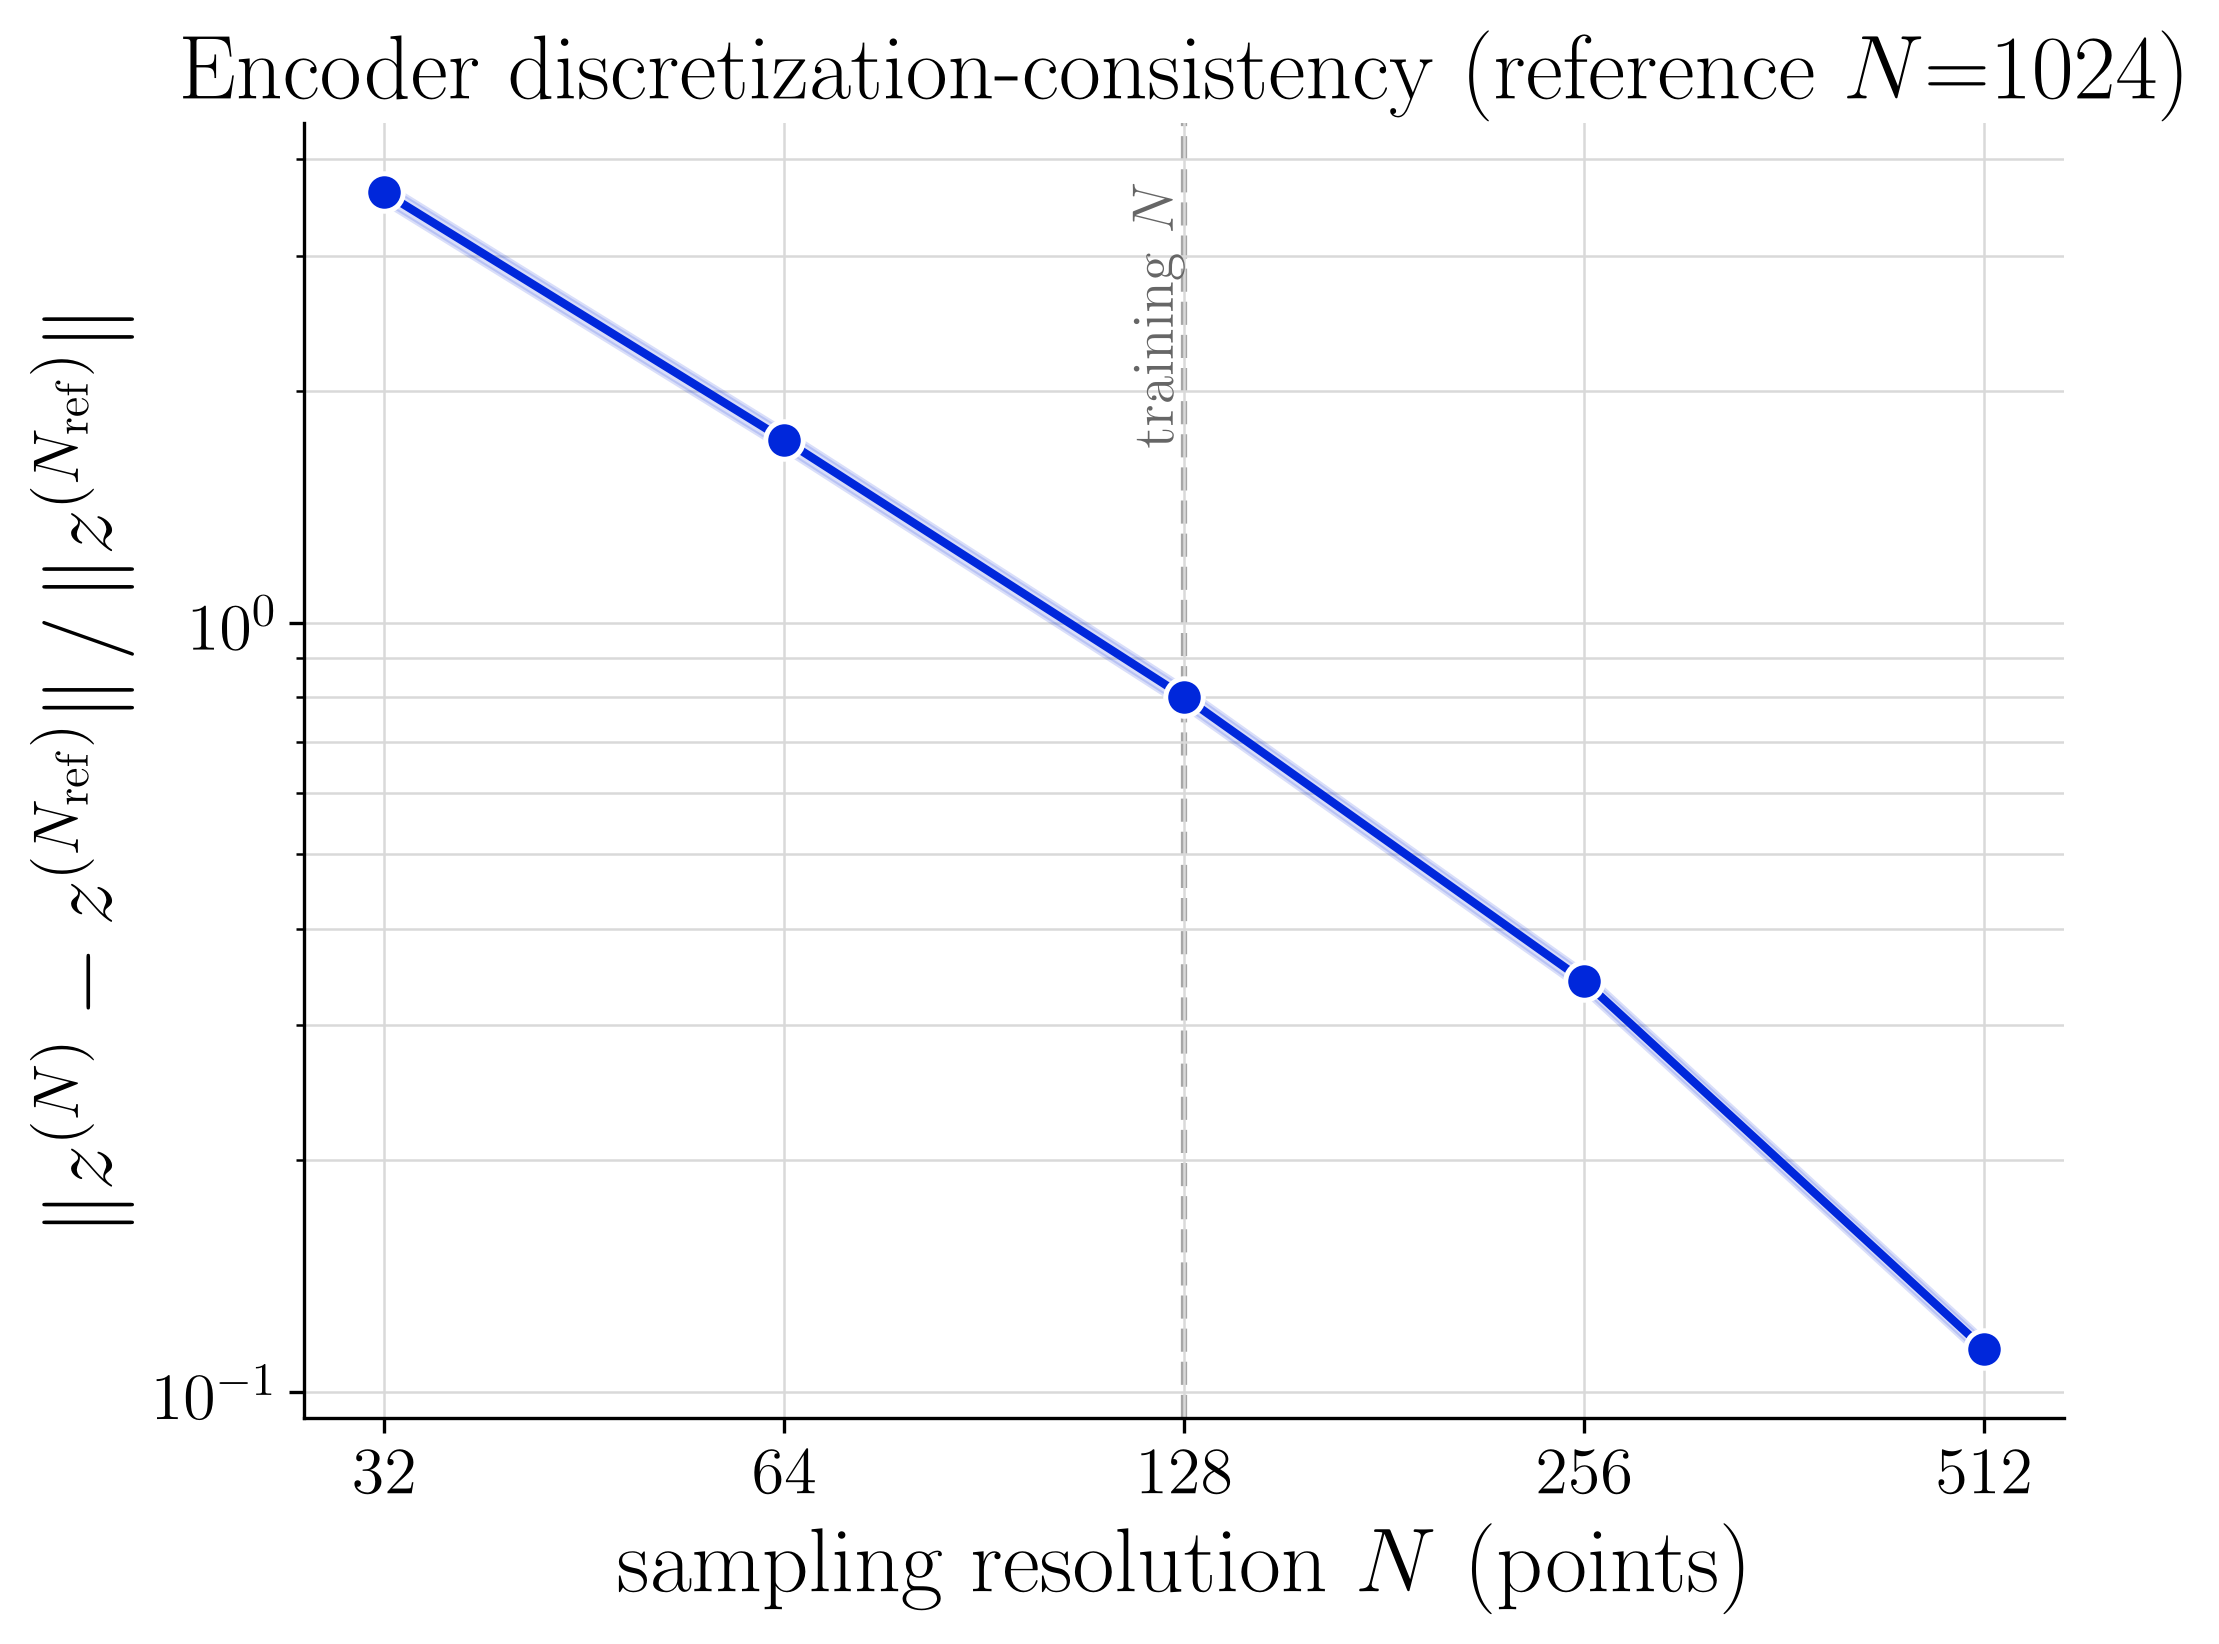
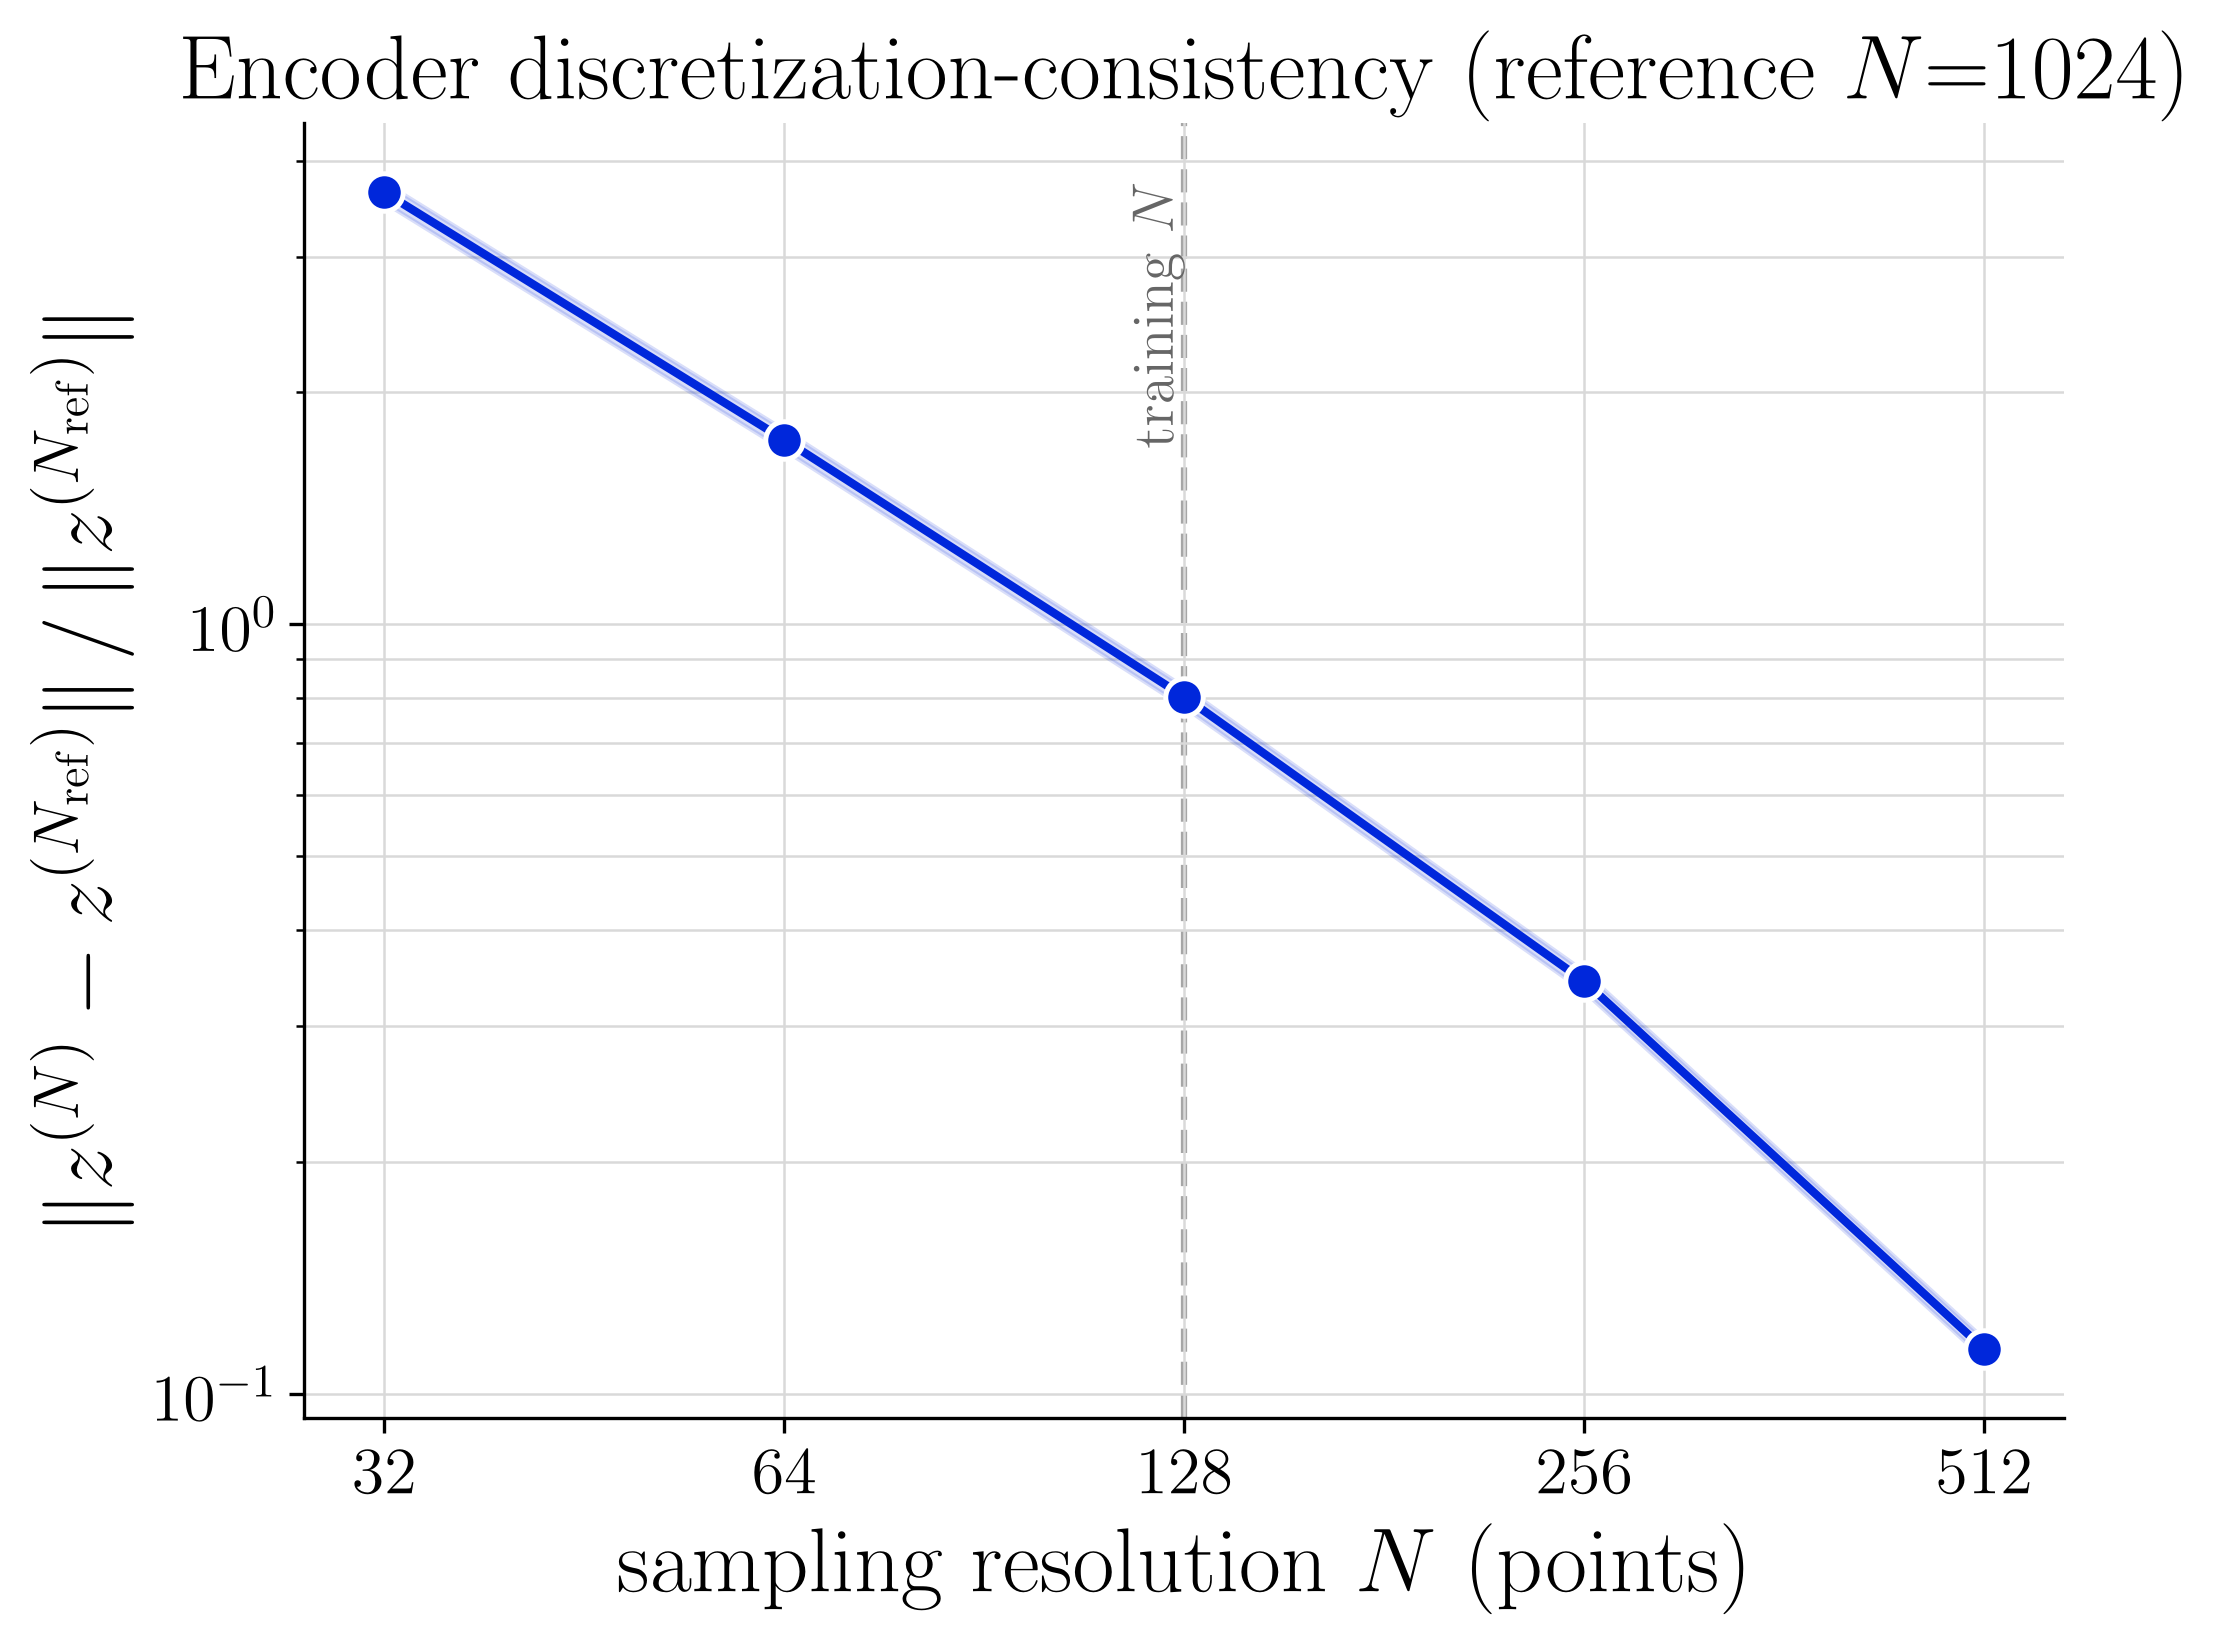
update training

diff --git a/src/training.py b/src/training.py
@@ -289,6 +289,41 @@ def _reset_xi_adam_moments(opt_state):
     return (new_adam_state, *rest)
 
 
+def _log_diagnostics(step, total_steps, aux, mask, t_start, steps_already_done):
+    """
+    Print the full loss breakdown and per-latent-dimension z statistics for the batch
+    just trained on. Meant to run far less often than the per-step loss_hist bookkeeping
+    (every `log_every` steps, and whenever a checkpoint is saved) -- this is for human
+    monitoring at the console, not analysis, so unlike loss_hist none of it is persisted.
+
+    The per-dimension `z std` row is the direct diagnostic for "has a latent variable
+    been turned off": `LAMBDA_VAR`'s gauge-fix pushes every axis toward Var(z_k) ~= 1,
+    so a std collapsing toward 0 on some axis means that axis has become an
+    (uninformative) near-constant -- visible here immediately, well before it would
+    show up in the aggregate loss_var number alone (loss_var is a mean over the whole
+    latent_dim x latent_dim covariance matrix, so one dead axis can be swamped by the
+    others and stay hidden in that single scalar).
+    """
+    elapsed = time.time() - t_start
+    done_this_run = step - steps_already_done
+    rate = done_this_run / elapsed if elapsed > 0 else float('nan')
+    eta_min = (total_steps - step) / rate / 60 if rate > 0 else float('nan')
+    n_active = int(np.array(mask).sum())
+
+    z = np.array(aux['z'])
+    z_mean = z.mean(axis=0)
+    z_std = z.std(axis=0)
+
+    print(f'[log {step}/{total_steps}]  ({rate:.1f} steps/s, elapsed {elapsed/60:.1f} min, ETA {eta_min:.1f} min)')
+    print(f'  loss {float(aux["loss"]):.3e}  rec {float(aux["loss_rec"]):.3e}  '
+          f'dz {float(aux["loss_dz"]):.3e}  dx {float(aux["loss_dx"]):.3e}  '
+          f'sp {float(aux["loss_sp"]):.3e}  var {float(aux["loss_var"]):.3e}  '
+          f'active {n_active}/{mask.size}')
+    with np.printoptions(precision=3, suppress=True):
+        print(f'  z mean {z_mean}')
+        print(f'  z std  {z_std}')
+
+
 def make_decoder(cfg):
     
     """
@@ -376,7 +411,7 @@ def make_train_step(cfg):
 
 
 def train(cfg, model, params, mask, training_data, rng, checkpoint_path=None, checkpoint_every=50_000,
-          resume_from=None, key=None):
+          resume_from=None, key=None, log_every=10_000):
     """
     Train `model` with hard sequential thresholding of the SINDy coefficients `xi`
     (STLSQ-style: |xi| < cfg.loss.THRESHOLD -> 0), drawing random batches straight
@@ -396,6 +431,12 @@ def train(cfg, model, params, mask, training_data, rng, checkpoint_path=None, ch
     there every `checkpoint_every` steps and again at the end -- with step budgets
     in the hundreds of thousands to millions, this is what makes a run recoverable
     after a Colab disconnect or any other mid-training interruption.
+
+    Every `log_every` steps, and again whenever a checkpoint is saved, the full loss
+    breakdown (not just `max|xi|`) and the per-latent-dimension mean/std of `z` for
+    that step's batch are printed to the console (see `_log_diagnostics`) -- this is
+    console-only monitoring, not persisted, and separate from the per-step scalar loss
+    terms that get appended to `loss_hist` every step regardless.
 
     `resume_from`, if given, is a `load_checkpoint(...)` payload: training picks up
     from the saved params/opt_state/mask/loss_hist and `state.step` rather than
@@ -451,7 +492,10 @@ def train(cfg, model, params, mask, training_data, rng, checkpoint_path=None, ch
             else:
                 u_t, u_dot, x = sample_batch(training_data, cfg.training.BATCH_SIZE, rng)
             state, total, aux = train_step(state, u_t, u_dot, x, mask)
-            loss_hist.append({k: float(v) for k, v in aux.items()})
+            loss_hist.append({k: float(v) for k, v in aux.items() if k != 'z'})
+
+            if step % log_every == 0:
+                _log_diagnostics(step, total_steps, aux, mask, t_start, steps_already_done)
 
             if i % 1000 == 0 or i == start_i + 1:
                 elapsed = time.time() - t_start
@@ -487,6 +531,8 @@ def train(cfg, model, params, mask, training_data, rng, checkpoint_path=None, ch
             if checkpoint_path is not None and step % checkpoint_every == 0:
                 save_checkpoint(checkpoint_path, state, mask, loss_hist)
                 print(f'checkpoint saved @ {step} -> {checkpoint_path}')
+                if step % log_every != 0:  # avoid printing the same diagnostics twice if the cadences coincide
+                    _log_diagnostics(step, total_steps, aux, mask, t_start, steps_already_done)
         return state, mask
 
     train_step = make_train_step(cfg)

diff --git a/src/losses.py b/src/losses.py
@@ -45,4 +45,5 @@ def sindy_ae_loss(cfg, model, batch, mask):
         "loss_dx": loss_dx,
         "loss_sp": loss_sp,
         "loss_var": loss_var,
+        "z": z,  # per-batch latent codes -- for diagnostic logging only, never persisted to loss_hist
     }